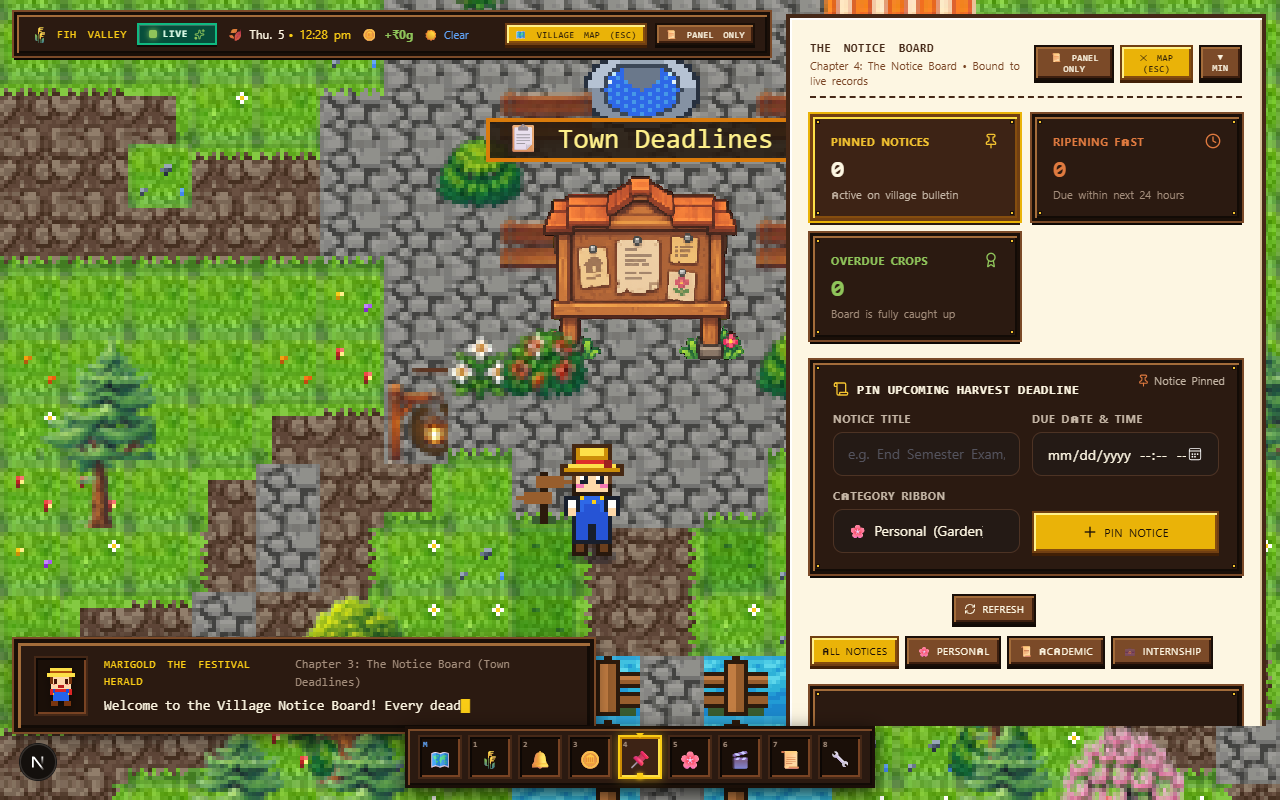
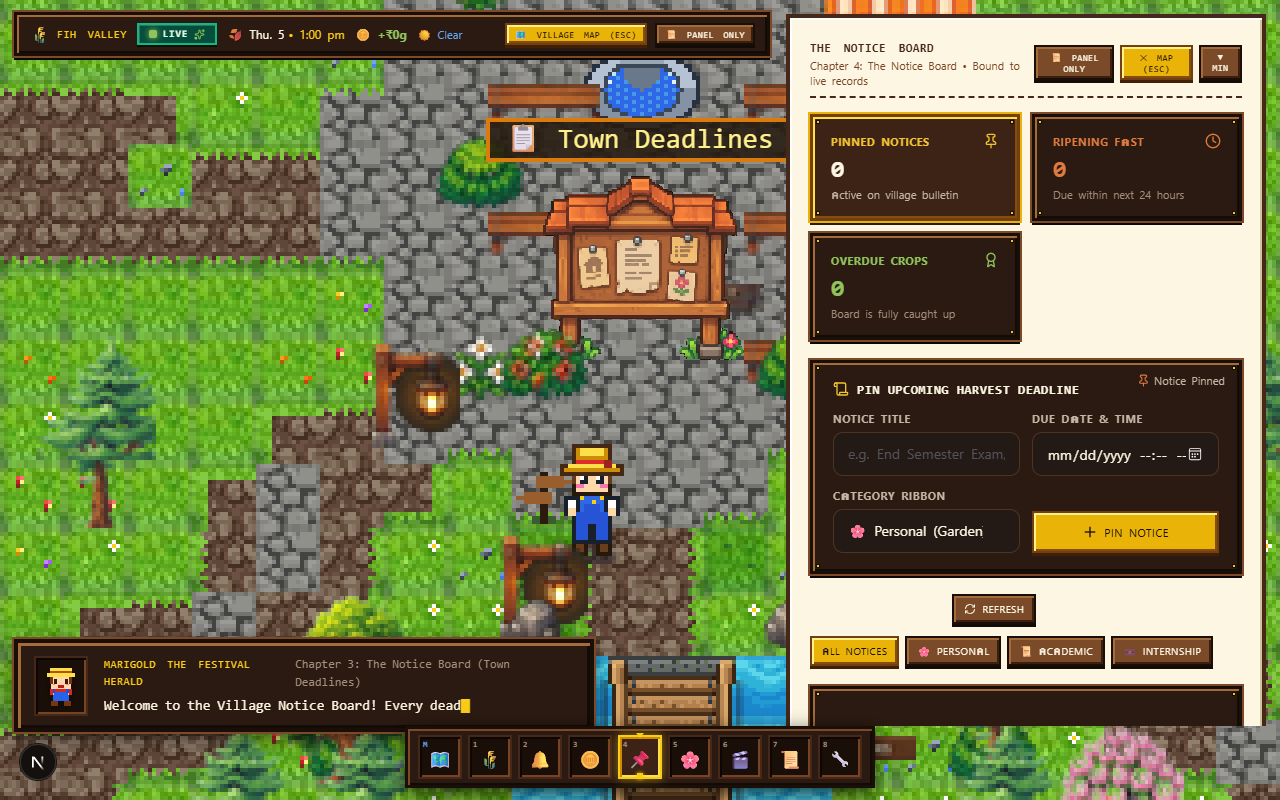
feat(world): integrate fences, lanterns, benches, mushrooms, rocks, and bridge props

diff --git a/components/world/PixelWorldCanvas.jsx b/components/world/PixelWorldCanvas.jsx
@@ -490,6 +490,16 @@ export const FOREST_PROPS = [
   { x: 35, y: 40, type: 'rock' },
   { x: 28, y: 43, type: 'rock' },
   { x: 36, y: 43, type: 'rock' },
+  { x: 29, y: 44, type: 'rock' },
+  { x: 35, y: 44, type: 'rock' },
+  // River slate stepping stones
+  { x: 30, y: 39, type: 'rock_slate' },
+  { x: 34, y: 39, type: 'rock_slate' },
+  { x: 30, y: 44, type: 'rock_slate' },
+  { x: 34, y: 44, type: 'rock_slate' },
+  // Ancient stone monuments & shrines
+  { x: 36, y: 9, type: 'stone_monument' },  // Bell Tower meditative garden
+  { x: 9, y: 30, type: 'stone_monument' },   // Archive Cellar ancient verge
   // Mossy boulders near Archive Cellar
   { x: 9, y: 31, type: 'rock' },
   { x: 15, y: 31, type: 'rock' },
@@ -503,8 +513,12 @@ export const FOREST_PROPS = [
   { x: 57, y: 46, type: 'log' },
   { x: 26, y: 46, type: 'log' },
   { x: 38, y: 46, type: 'log' },
-  // Amanita mushroom clusters under the forest canopies
+  // Amanita & golden mushroom clusters under the forest canopies & Archive Cellar
   { x: 8, y: 34, type: 'mushrooms' },
+  { x: 10, y: 33, type: 'mushrooms' },
+  { x: 11, y: 31, type: 'mushrooms' },
+  { x: 14, y: 35, type: 'mushrooms' },
+  { x: 15, y: 30, type: 'mushrooms' },
   { x: 16, y: 34, type: 'mushrooms' },
   { x: 22, y: 15, type: 'mushrooms' },
   { x: 42, y: 15, type: 'mushrooms' },
@@ -513,11 +527,14 @@ export const FOREST_PROPS = [
   { x: 53, y: 27, type: 'mushrooms' },
   { x: 23, y: 50, type: 'mushrooms' },
   { x: 41, y: 50, type: 'mushrooms' },
+  { x: 30, y: 8, type: 'mushrooms' },
+  { x: 34, y: 8, type: 'mushrooms' },
   // Decorative weathered tree stumps
   { x: 9, y: 34, type: 'stump' },  // Archive Cellar ancient grove
   { x: 18, y: 23, type: 'stump' }, // Toolshed chopping block
   { x: 24, y: 12, type: 'stump' }, // Forest path stump
   { x: 40, y: 12, type: 'stump' }, // Forest path stump
+  { x: 46, y: 21, type: 'stump' }, // Sky Post forest path stump
 ];
 
 export const INTERNAL_TREE_TRUNKS = new Set(
@@ -751,6 +768,17 @@ export default function PixelWorldCanvas({
       market_stall: null,
       barrel_stack: null,
       citrus_tree: null,
+      fence_wood: null,
+      fence_post: null,
+      lantern_wood_post: null,
+      lantern_oil: null,
+      bench_log: null,
+      rock_slate: null,
+      stone_monument: null,
+      bridge_wood: null,
+      stone_well: null,
+      farm_cart: null,
+      haystack: null,
     },
     loaded: false,
     camera: { x: 32 * 16, y: 33 * 16 }, // Center at Central Plaza Fountain on spawn
@@ -807,6 +835,17 @@ export default function PixelWorldCanvas({
       { key: 'market_stall', src: '/assets/props/market_stall.png' },
       { key: 'barrel_stack', src: '/assets/props/barrel_stack.png' },
       { key: 'citrus_tree', src: '/assets/props/citrus_tree.png' },
+      { key: 'fence_wood', src: '/assets/props/fence_wood.png' },
+      { key: 'fence_post', src: '/assets/props/fence_post.png' },
+      { key: 'lantern_wood_post', src: '/assets/props/lantern_wood_post.png' },
+      { key: 'lantern_oil', src: '/assets/props/lantern_oil.png' },
+      { key: 'bench_log', src: '/assets/props/bench_log.png' },
+      { key: 'rock_slate', src: '/assets/props/rock_slate.png' },
+      { key: 'stone_monument', src: '/assets/props/stone_monument.png' },
+      { key: 'bridge_wood', src: '/assets/props/bridge_wood.png' },
+      { key: 'stone_well', src: '/assets/props/stone_well.png' },
+      { key: 'farm_cart', src: '/assets/props/farm_cart.png' },
+      { key: 'haystack', src: '/assets/props/haystack.png' },
     ];
 
     let count = 0;
@@ -1206,19 +1245,55 @@ export default function PixelWorldCanvas({
         }
       }
 
-      // ── Layer 2: Decorative Fences & Rails ──
-      // Farmstead boundary fence (ty: 16, tx: 10..13 and tx: 16..17) leaving tx: 14..15 open for path
-      for (let fx = 10; fx <= 13; fx++) {
-        ctx.drawImage(tileset, 2 * TILE_SIZE, 1 * TILE_SIZE, TILE_SIZE, TILE_SIZE, fx * TILE_SIZE, 16 * TILE_SIZE, TILE_SIZE, TILE_SIZE);
-      }
-      for (let fx = 16; fx <= 17; fx++) {
-        ctx.drawImage(tileset, 2 * TILE_SIZE, 1 * TILE_SIZE, TILE_SIZE, TILE_SIZE, fx * TILE_SIZE, 16 * TILE_SIZE, TILE_SIZE, TILE_SIZE);
+      // ── Layer 2: Decorative Fences, Rails & Wooden Footbridge ──
+      // 1. Upgraded Wooden Footbridge across Woodland Pond (tx: 31..33, ty: 40..43)
+      const bridgeImg = state.images.bridge_wood;
+      if (bridgeImg) {
+        // 48x64 px wooden deck with side timber railings and stone abutments
+        ctx.drawImage(bridgeImg, 31 * TILE_SIZE, 40 * TILE_SIZE, 3 * TILE_SIZE, 4 * TILE_SIZE);
+      } else {
+        // Fallback tileset railings
+        for (let by = 40; by <= 43; by++) {
+          ctx.drawImage(tileset, 2 * TILE_SIZE, 1 * TILE_SIZE, TILE_SIZE, TILE_SIZE, 31 * TILE_SIZE, by * TILE_SIZE, TILE_SIZE, TILE_SIZE);
+          ctx.drawImage(tileset, 2 * TILE_SIZE, 1 * TILE_SIZE, TILE_SIZE, TILE_SIZE, 33 * TILE_SIZE, by * TILE_SIZE, TILE_SIZE, TILE_SIZE);
+        }
       }
 
-      // Wooden Footbridge Railings across Woodland Pond (tx: 31 and tx: 33, ty: 40..43)
-      for (let by = 40; by <= 43; by++) {
-        ctx.drawImage(tileset, 2 * TILE_SIZE, 1 * TILE_SIZE, TILE_SIZE, TILE_SIZE, 31 * TILE_SIZE, by * TILE_SIZE, TILE_SIZE, TILE_SIZE);
-        ctx.drawImage(tileset, 2 * TILE_SIZE, 1 * TILE_SIZE, TILE_SIZE, TILE_SIZE, 33 * TILE_SIZE, by * TILE_SIZE, TILE_SIZE, TILE_SIZE);
+      // 2. Upgraded Wooden Split-Rail Fences
+      const fenceImg = state.images.fence_wood;
+      const fencePostImg = state.images.fence_post;
+      if (fenceImg) {
+        // Farmstead Garden Perimeter (tx: 10..13 and tx: 16..17, ty: 16)
+        ctx.drawImage(fenceImg, 10 * TILE_SIZE, 16 * TILE_SIZE, 32, 16);
+        ctx.drawImage(fenceImg, 12 * TILE_SIZE, 16 * TILE_SIZE, 32, 16);
+        ctx.drawImage(fenceImg, 16 * TILE_SIZE, 16 * TILE_SIZE, 32, 16);
+        if (fencePostImg) {
+          ctx.drawImage(fencePostImg, 10 * TILE_SIZE - 4, 16 * TILE_SIZE, 12, 16);
+          ctx.drawImage(fencePostImg, 14 * TILE_SIZE - 6, 16 * TILE_SIZE, 12, 16); // Gate left
+          ctx.drawImage(fencePostImg, 16 * TILE_SIZE - 4, 16 * TILE_SIZE, 12, 16); // Gate right
+          ctx.drawImage(fencePostImg, 18 * TILE_SIZE - 4, 16 * TILE_SIZE, 12, 16);
+        }
+
+        // Ledger Bank Courtyard Fences (tx: 47..48 and tx: 52..53, ty: 16)
+        ctx.drawImage(fenceImg, 47 * TILE_SIZE, 16 * TILE_SIZE, 32, 16);
+        ctx.drawImage(fenceImg, 52 * TILE_SIZE, 16 * TILE_SIZE, 32, 16);
+        if (fencePostImg) {
+          ctx.drawImage(fencePostImg, 47 * TILE_SIZE - 4, 16 * TILE_SIZE, 12, 16);
+          ctx.drawImage(fencePostImg, 49 * TILE_SIZE - 4, 16 * TILE_SIZE, 12, 16);
+          ctx.drawImage(fencePostImg, 52 * TILE_SIZE - 4, 16 * TILE_SIZE, 12, 16);
+          ctx.drawImage(fencePostImg, 54 * TILE_SIZE - 4, 16 * TILE_SIZE, 12, 16);
+        }
+
+        // Toolshed Workshop Yard Fence (tx: 14..15 and tx: 17..18, ty: 25)
+        ctx.drawImage(fenceImg, 14 * TILE_SIZE, 25 * TILE_SIZE, 32, 16);
+        ctx.drawImage(fenceImg, 17 * TILE_SIZE, 25 * TILE_SIZE, 32, 16);
+      } else {
+        for (let fx = 10; fx <= 13; fx++) {
+          ctx.drawImage(tileset, 2 * TILE_SIZE, 1 * TILE_SIZE, TILE_SIZE, TILE_SIZE, fx * TILE_SIZE, 16 * TILE_SIZE, TILE_SIZE, TILE_SIZE);
+        }
+        for (let fx = 16; fx <= 17; fx++) {
+          ctx.drawImage(tileset, 2 * TILE_SIZE, 1 * TILE_SIZE, TILE_SIZE, TILE_SIZE, fx * TILE_SIZE, 16 * TILE_SIZE, TILE_SIZE, TILE_SIZE);
+        }
       }
 
       // ── Layer 3: Depth-Sorted Entities (Buildings, Props, Characters, Trees) ──
@@ -1264,6 +1339,24 @@ export default function PixelWorldCanvas({
 
           // Courier Bird Wren on mailbox post (x: 15, y: 14)
           ctx.drawImage(tileset, 7 * TILE_SIZE, 5 * TILE_SIZE, TILE_SIZE, TILE_SIZE, 15 * TILE_SIZE, 14 * TILE_SIZE, TILE_SIZE, TILE_SIZE);
+
+          // Farmstead Stone Well with Roof & Bucket (tx: 10.5, ty: 12)
+          const wellImg = state.images.stone_well;
+          if (wellImg) {
+            ctx.drawImage(wellImg, 10.5 * TILE_SIZE, 12 * TILE_SIZE - 4, 32, 36);
+          }
+
+          // Farmstead Wooden Cart (tx: 17, ty: 12.5)
+          const cartImg = state.images.farm_cart;
+          if (cartImg) {
+            ctx.drawImage(cartImg, 17 * TILE_SIZE, 12.5 * TILE_SIZE, 36, 26);
+          }
+
+          // Farmstead Golden Haystack (tx: 10, ty: 15)
+          const hayImg = state.images.haystack;
+          if (hayImg) {
+            ctx.drawImage(hayImg, 10 * TILE_SIZE - 2, 15 * TILE_SIZE - 6, 20, 22);
+          }
         },
       });
 
@@ -1532,10 +1625,15 @@ export default function PixelWorldCanvas({
         },
       });
 
-      // ── 11a. Central Plaza Wooden Benches ──
+      // ── 11a. Central Plaza & Landmark Wooden Benches ──
       const plazaBenches = [
+        // Central Plaza fountain benches
         { x: 30, y: 31 }, { x: 34, y: 31 },
         { x: 30, y: 33 }, { x: 34, y: 33 },
+        // Bell Tower circular stone platform benches
+        { x: 30, y: 11 }, { x: 34, y: 11 },
+        // Notice Board resting bench
+        { x: 34, y: 35 },
       ];
       plazaBenches.forEach((bp) => {
         if (viewW < 1000 && (bp.x * TILE_SIZE < camMinX || bp.x * TILE_SIZE > camMaxX || bp.y * TILE_SIZE < camMinY || bp.y * TILE_SIZE > camMaxY)) return;
@@ -1544,13 +1642,33 @@ export default function PixelWorldCanvas({
           render: () => {
             const bImg = state.images.bench_wood;
             if (bImg) {
-              ctx.drawImage(bImg, bp.x * TILE_SIZE - 4, bp.y * TILE_SIZE + 2, 24, 14);
+              ctx.drawImage(bImg, bp.x * TILE_SIZE - 6, bp.y * TILE_SIZE - 2, 28, 18);
             }
           },
         });
       });
 
-      // ── 11b. Street Lanterns (Wrought Iron Lamp Posts) ──
+      // ── 11b. Rustic Woodland Log Benches ──
+      const logBenches = [
+        // Scenic Woodland Pond Overlook
+        { x: 29, y: 41 }, { x: 35, y: 41 },
+        // Northern Forest Trail Rest
+        { x: 24, y: 20 }, { x: 40, y: 20 },
+      ];
+      logBenches.forEach((lb) => {
+        if (viewW < 1000 && (lb.x * TILE_SIZE < camMinX || lb.x * TILE_SIZE > camMaxX || lb.y * TILE_SIZE < camMinY || lb.y * TILE_SIZE > camMaxY)) return;
+        renderables.push({
+          y: (lb.y + 1) * TILE_SIZE,
+          render: () => {
+            const lbImg = state.images.bench_log || state.images.bench_wood;
+            if (lbImg) {
+              ctx.drawImage(lbImg, lb.x * TILE_SIZE - 5, lb.y * TILE_SIZE, 26, 14);
+            }
+          },
+        });
+      });
+
+      // ── 11c. Street Lanterns (Hanging Timber Bracket Posts & Oil Lanterns) ──
       const streetLanterns = [
         // Plaza Four Corners
         { x: 28, y: 28 }, { x: 36, y: 28 },
@@ -1565,15 +1683,41 @@ export default function PixelWorldCanvas({
         { x: 14, y: 23 },
         // Sky Post Courier Lantern
         { x: 50, y: 24 },
+        // Wooden Footbridge North & South Abutment Lanterns
+        { x: 30, y: 39 }, { x: 34, y: 44 },
+        // Crossroads to Festival & Cinema
+        { x: 20, y: 44 }, { x: 44, y: 44 },
       ];
       streetLanterns.forEach((lp) => {
         if (viewW < 1000 && (lp.x * TILE_SIZE < camMinX || lp.x * TILE_SIZE > camMaxX || lp.y * TILE_SIZE < camMinY || lp.y * TILE_SIZE > camMaxY)) return;
         renderables.push({
           y: (lp.y + 1) * TILE_SIZE,
           render: () => {
-            const lImg = state.images.lantern_post;
+            const lImg = state.images.lantern_wood_post || state.images.lantern_post;
             if (lImg) {
-              ctx.drawImage(lImg, lp.x * TILE_SIZE, lp.y * TILE_SIZE - 8, 16, 24);
+              const w = state.images.lantern_wood_post ? 22 : 16;
+              const h = state.images.lantern_wood_post ? 34 : 24;
+              const yOff = state.images.lantern_wood_post ? -18 : -8;
+              const xOff = state.images.lantern_wood_post ? -3 : 0;
+              ctx.drawImage(lImg, lp.x * TILE_SIZE + xOff, lp.y * TILE_SIZE + yOff, w, h);
+            }
+          },
+        });
+      });
+
+      // Cozy Portable Oil Lanterns (on stone ledges / tables)
+      const oilLanterns = [
+        { x: 33, y: 34 }, // Notice Board stone post
+        { x: 17, y: 23 }, // Toolshed workbench edge
+      ];
+      oilLanterns.forEach((ol) => {
+        if (viewW < 1000 && (ol.x * TILE_SIZE < camMinX || ol.x * TILE_SIZE > camMaxX || ol.y * TILE_SIZE < camMinY || ol.y * TILE_SIZE > camMaxY)) return;
+        renderables.push({
+          y: (ol.y + 1) * TILE_SIZE,
+          render: () => {
+            const oilImg = state.images.lantern_oil;
+            if (oilImg) {
+              ctx.drawImage(oilImg, ol.x * TILE_SIZE + 1, ol.y * TILE_SIZE - 2, 14, 18);
             }
           },
         });
@@ -1675,7 +1819,27 @@ export default function PixelWorldCanvas({
             y: (prop.y + 1) * TILE_SIZE,
             render: () => {
               if (rockImg) {
-                ctx.drawImage(rockImg, prop.x * TILE_SIZE, prop.y * TILE_SIZE, 16, 16);
+                ctx.drawImage(rockImg, prop.x * TILE_SIZE - 4, prop.y * TILE_SIZE - 4, 24, 20);
+              }
+            },
+          });
+        } else if (prop.type === 'rock_slate') {
+          const slateImg = state.images.rock_slate;
+          renderables.push({
+            y: (prop.y + 1) * TILE_SIZE,
+            render: () => {
+              if (slateImg) {
+                ctx.drawImage(slateImg, prop.x * TILE_SIZE - 2, prop.y * TILE_SIZE + 2, 20, 14);
+              }
+            },
+          });
+        } else if (prop.type === 'stone_monument') {
+          const monImg = state.images.stone_monument;
+          renderables.push({
+            y: (prop.y + 1) * TILE_SIZE,
+            render: () => {
+              if (monImg) {
+                ctx.drawImage(monImg, prop.x * TILE_SIZE - 2, prop.y * TILE_SIZE - 12, 20, 28);
               }
             },
           });
@@ -1685,7 +1849,7 @@ export default function PixelWorldCanvas({
             y: (prop.y + 1) * TILE_SIZE,
             render: () => {
               if (mushImg) {
-                ctx.drawImage(mushImg, prop.x * TILE_SIZE, prop.y * TILE_SIZE, 16, 16);
+                ctx.drawImage(mushImg, prop.x * TILE_SIZE - 1, prop.y * TILE_SIZE - 2, 18, 18);
               }
             },
           });
@@ -1695,7 +1859,7 @@ export default function PixelWorldCanvas({
             y: (prop.y + 1) * TILE_SIZE,
             render: () => {
               if (stumpImg) {
-                ctx.drawImage(stumpImg, prop.x * TILE_SIZE - 1, prop.y * TILE_SIZE - 2, 18, 18);
+                ctx.drawImage(stumpImg, prop.x * TILE_SIZE - 3, prop.y * TILE_SIZE - 4, 22, 20);
               }
             },
           });

diff --git a/public/assets/ATLAS.md b/public/assets/ATLAS.md
@@ -215,3 +215,21 @@ Dedicated 16-bit RPG woodland vegetation and environmental clutter sprites desig
 | **Mossy River Boulder** | `rock_moss.png` | 20×16 px | `x, y` | Rounded ancient river stone with slate blue contours, specular highlights, and lush moss cap on upper crest. |
 | **Amanita Mushrooms** | `mushrooms.png` | 16×16 px (1×1 tile) | `x, y` | Cluster of three woodland amanita mushrooms with vibrant red domed caps, white spots, cream stalks, and ground shadow. |
 
+### Props & Decorations Registry (Extracted from 16-bit RPG Sheet):
+| Asset | File | Dimensions | Placement | Description |
+|:---|:---|:---|:---|:---|
+| **Wooden Footbridge** | `bridge_wood.png` | 48×64 px (3×4 tiles) | `tx: 31..33, ty: 40..43` | Weathered oak deck planks with iron nail pegs, side timber railings with round post finials, hand-cut stone abutments at north/south shorelines, and soft water drop shadows. Spans across the Woodland Pond. |
+| **Split-Rail Wooden Fence** | `fence_wood.png` | 32×16 px (2×1 tiles) | `tx: 10..18, ty: 16` / `47..53, ty: 16` | Horizontal 2-rail timber fence with carved crossbars, notched posts, and ground drop shadow. Encloses Farmstead garden plots, Ledger Bank courtyard, and Toolshed yard. |
+| **Fence Post** | `fence_post.png` | 12×16 px | Fence junctions & gate ends | Upright notched timber post terminating split-rail fence runs and gates. |
+| **Hanging Bracket Lamppost** | `lantern_wood_post.png` | 22×34 px | Crossroads & Plaza borders | Timber post with angled wooden support bracket, hanging iron carriage lantern, and warm glowing amber light. |
+| **Cozy Oil Lantern** | `lantern_oil.png` | 14×18 px | Ledges & tables | Portable brass/iron oil lantern with top wire carrying loop and warm flickering flame. |
+| **Cedar Park Bench** | `bench_wood.png` | 28×18 px | Central Plaza & Bell Tower | Upgraded high-back cedar garden bench with slatted wooden backrest, armrests, and cast-iron feet. |
+| **Rustic Log Bench** | `bench_log.png` | 26×14 px | Woodland Pond Overlook | Backless rustic timber plank bench overlooking the water crossing and along forest trails. |
+| **Stepped Mossy Boulder** | `rock_moss.png` | 24×20 px | Pond banks & Archive verge | Rounded granite river stones with vibrant emerald moss mantle draping upper crests. |
+| **River Slate Stepping Stones**| `rock_slate.png` | 20×14 px | Water crossings & trail verges | Flat smooth river stones serving as natural transitions between grass, path, and shoreline. |
+| **Ancient Stone Monolith** | `stone_monument.png` | 20×28 px | Bell Tower grove & Archive Cellar | Weathered moss-covered standing stone shrine dotted with climbing wild pink blossoms. |
+| **Amanita & Chanterelle Cluster** | `mushrooms.png` | 18×18 px | Archive Cellar & forest verge | Cluster of scarlet domed Amanita mushrooms with white flecks and golden forest chanterelles with moss shoots. |
+| **Stone Village Well** | `stone_well.png` | 32×36 px (2×2.25 tiles) | Farmstead yard (`10.5, 12`) | Round stone brick well with scalloped wooden shingle gabled canopy roof, crossbeam, and hanging water bucket. |
+| **Wooden Farm Cart** | `farm_cart.png` | 36×26 px | Farmstead field (`17, 12.5`) | Two-wheeled wooden farm cart with side slat panels, timber spoke wheels, and front pull handles. |
+| **Golden Haystack** | `haystack.png` | 20×22 px | Farmstead crops (`10, 15`) | Domed golden straw hay bale with rustic pitchfork accent. |
+| **Ancient Oak Tree Stump** | `tree_stump.png` | 22×20 px | Woodland clearings | Weathered tree stump with prominent annular growth rings, bark ridges, and root flares. |
